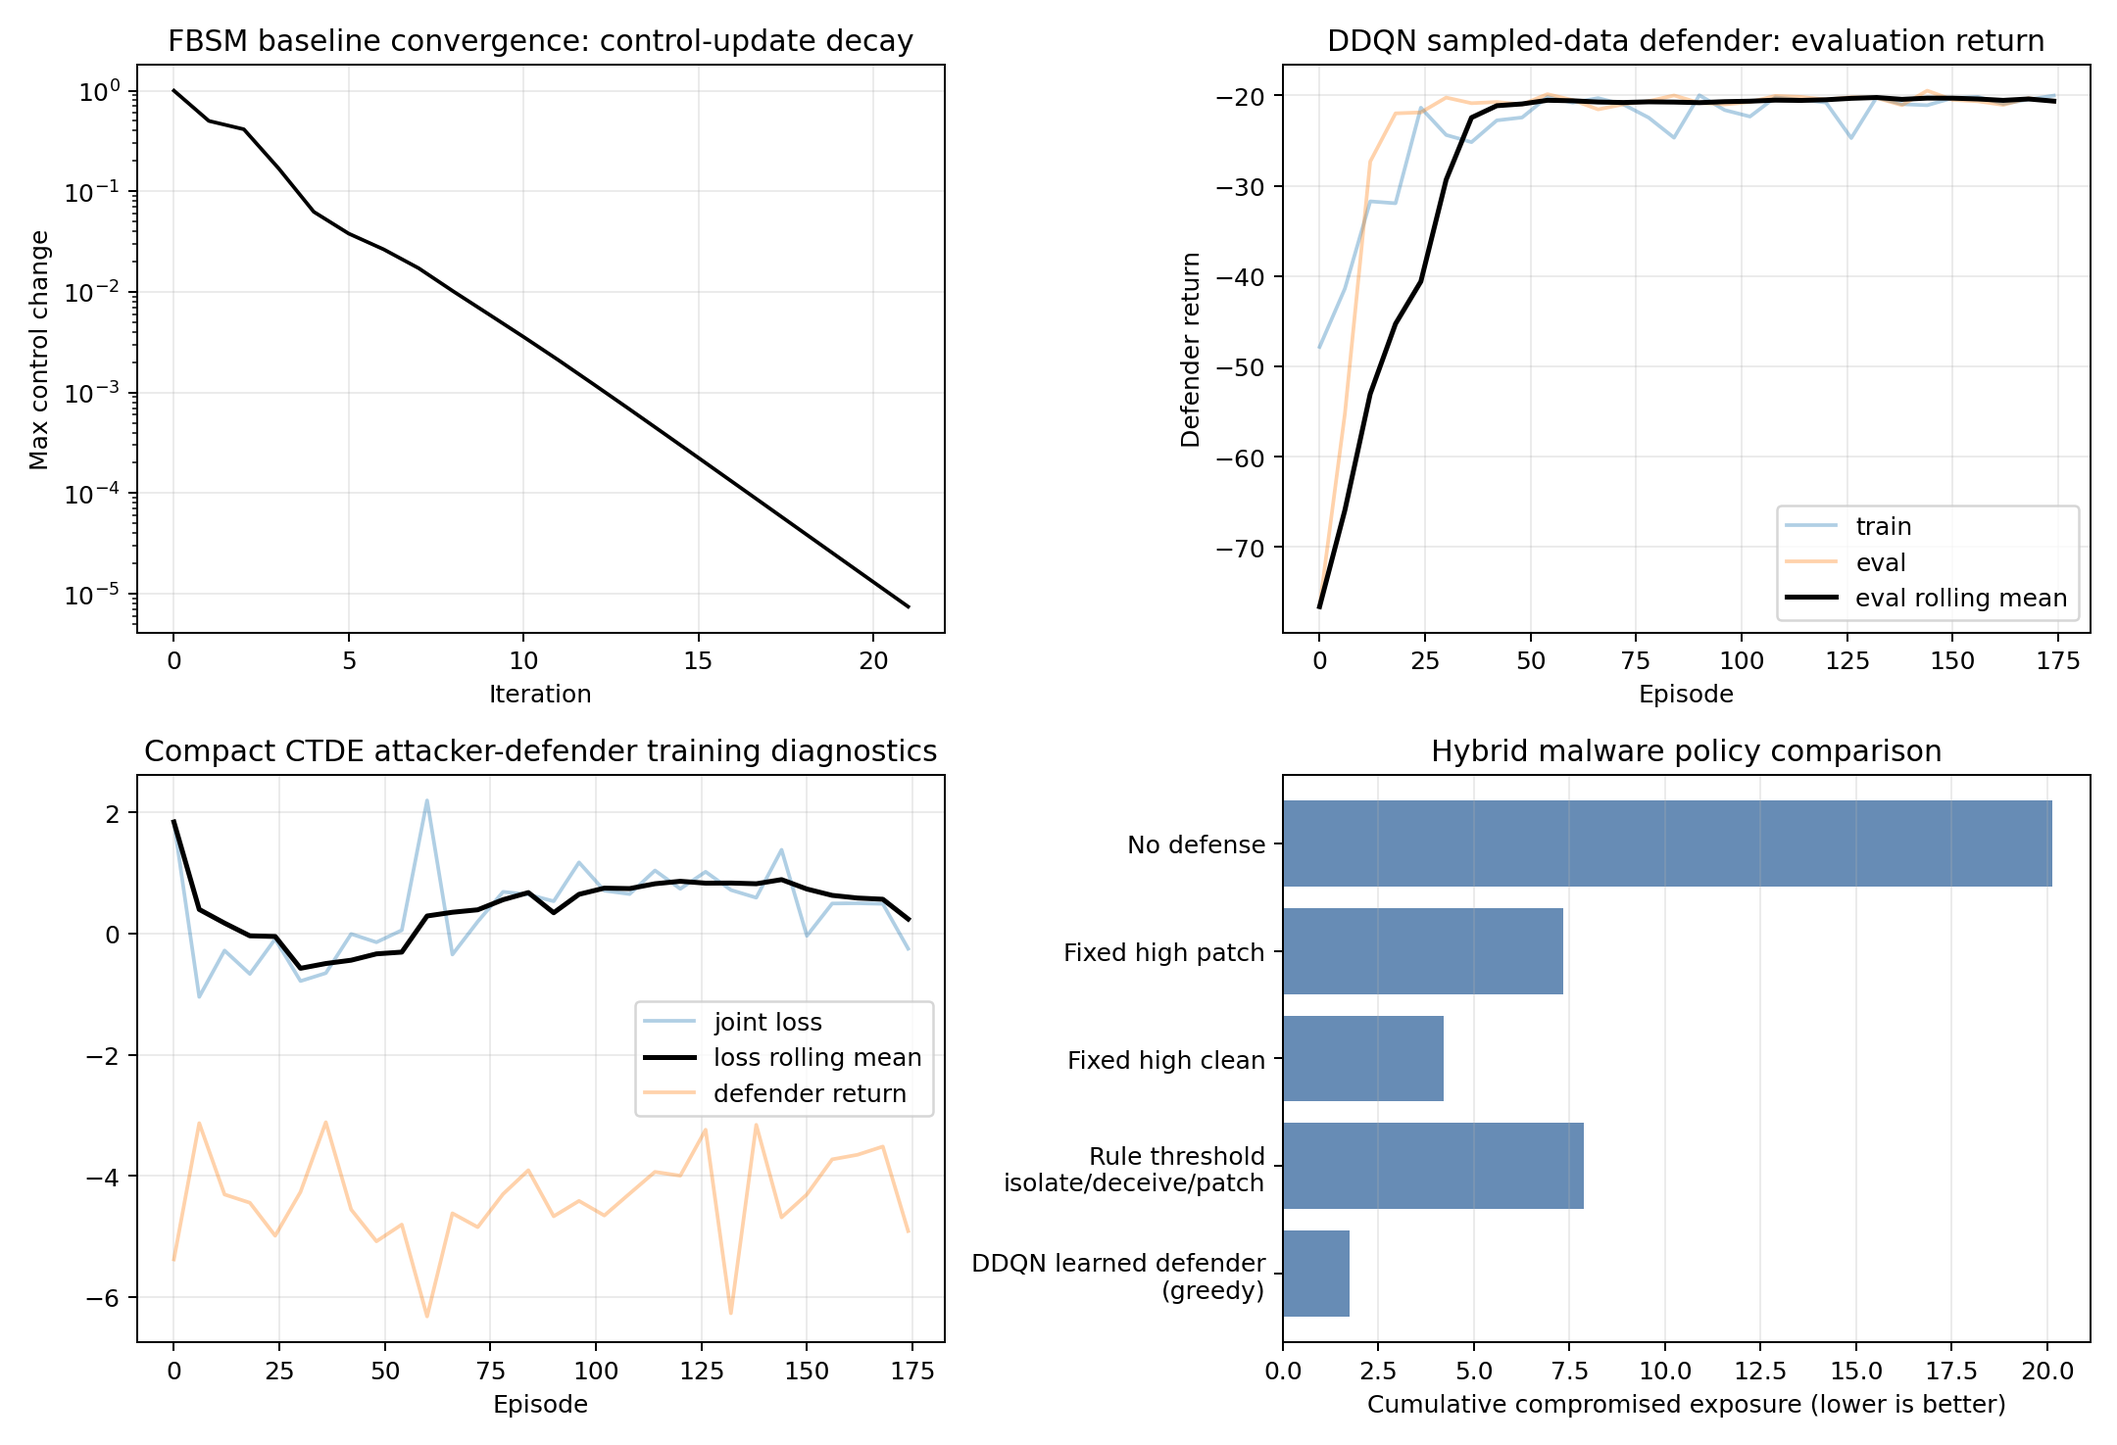
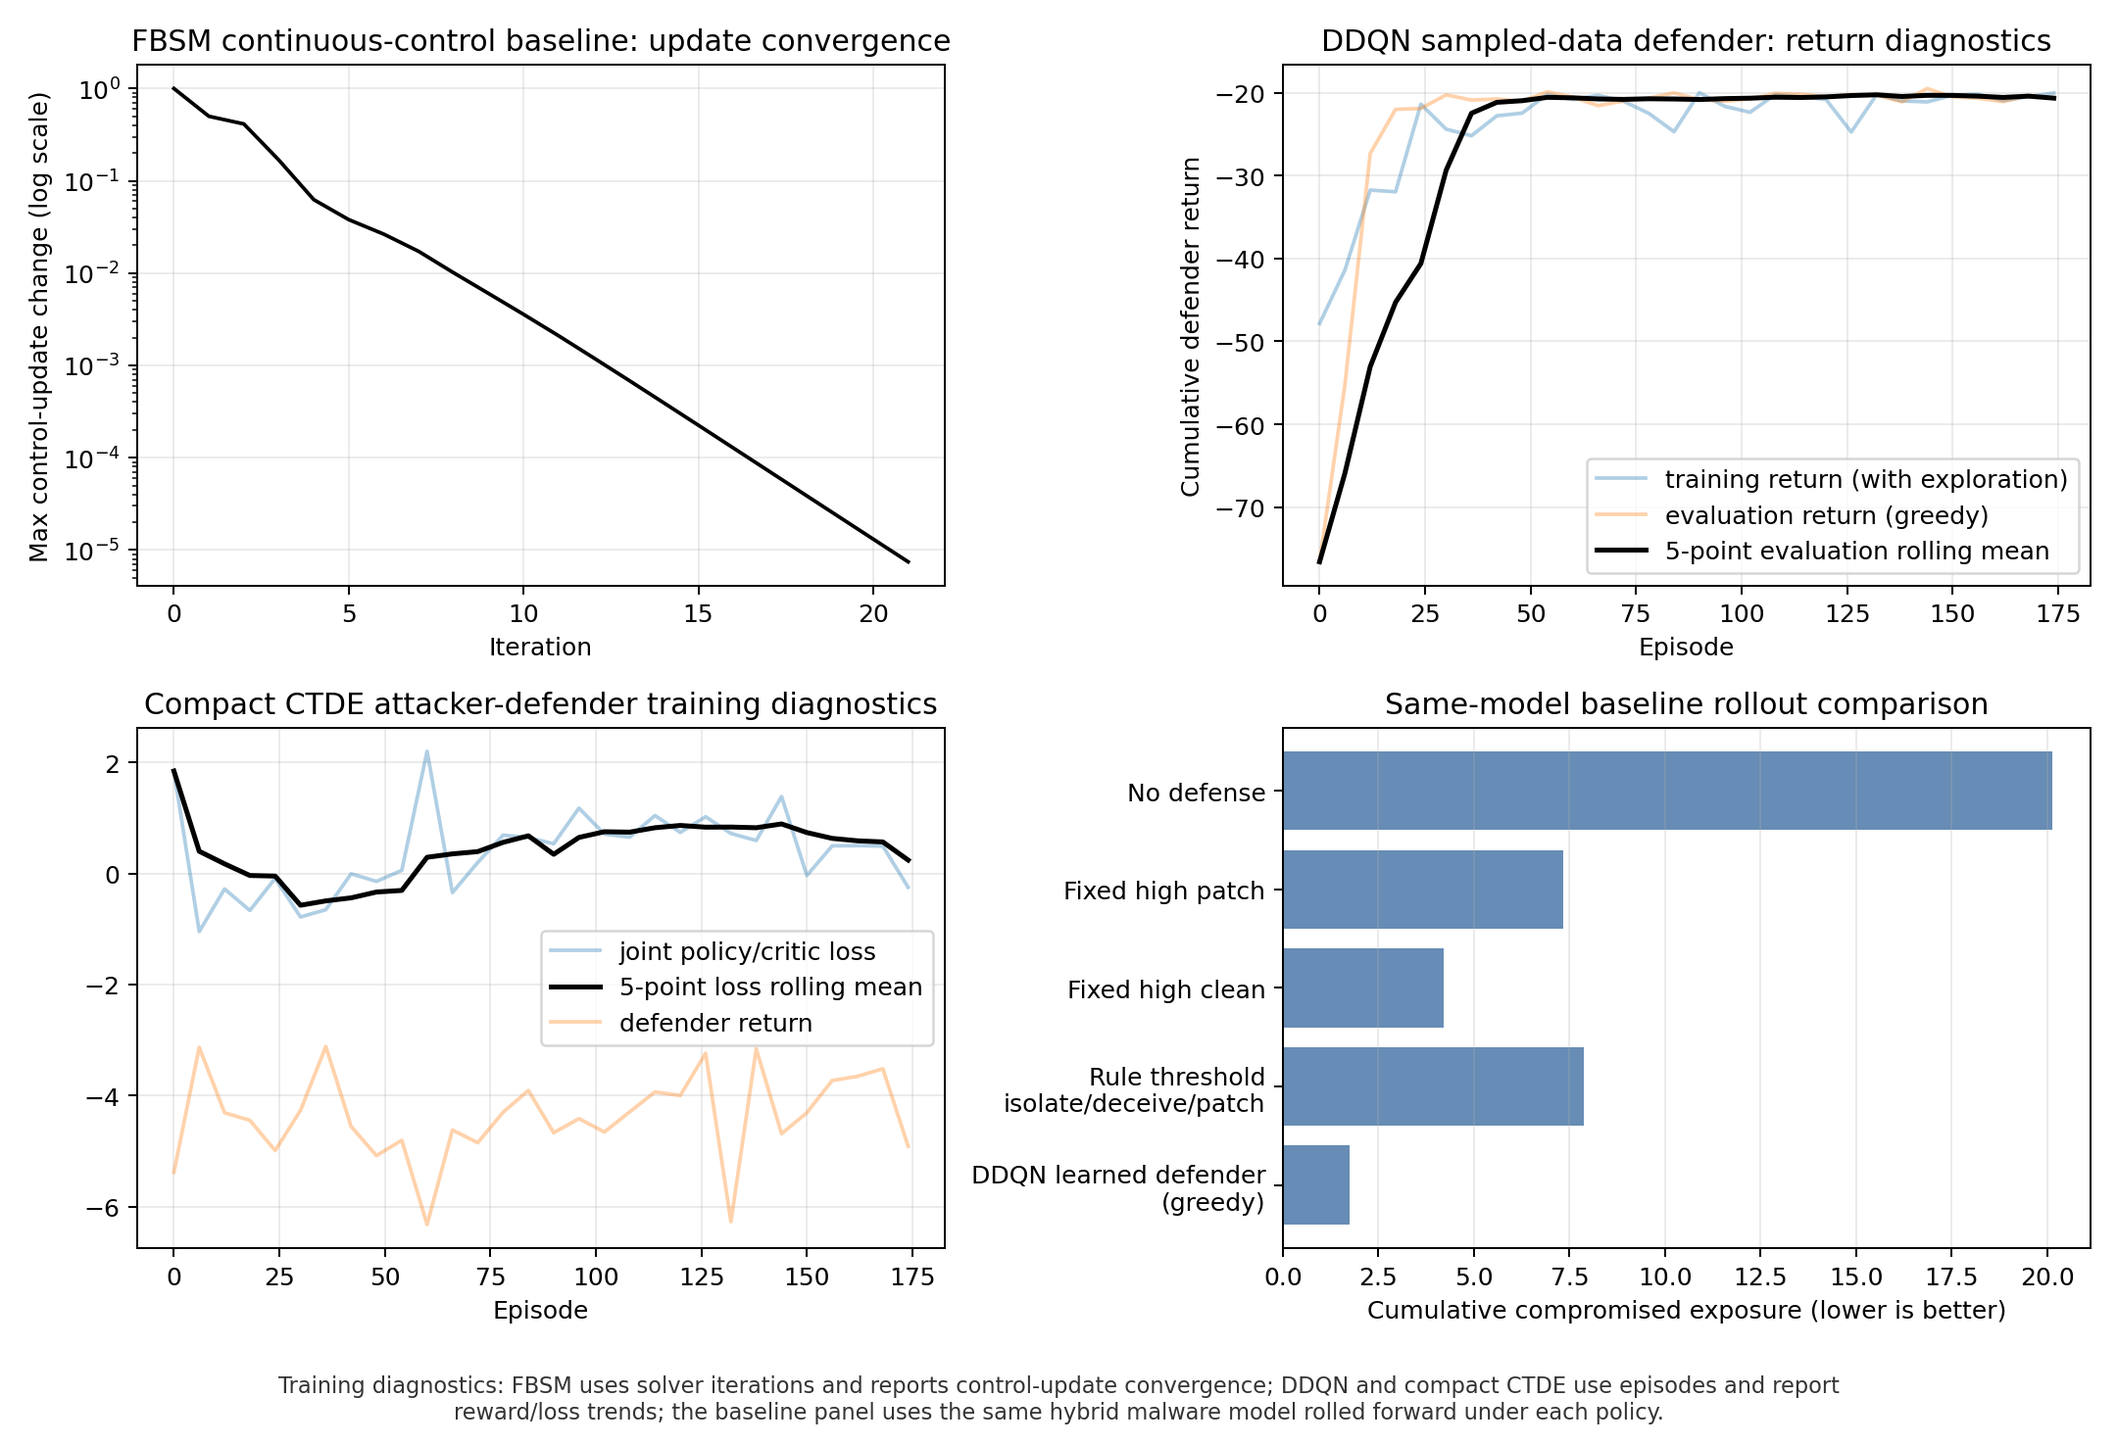
Clarify Note 1 training diagnostics

diff --git a/scripts/run_training_iterations.py b/scripts/run_training_iterations.py
@@ -11,7 +11,6 @@ direction over time?"
 from __future__ import annotations
 
 import argparse
-import math
 import textwrap
 from pathlib import Path
 import sys
@@ -29,6 +28,7 @@ sys.path.insert(0, str(ROOT / "src"))
 from shared_setup import ensure_foundation_package
 
 ensure_foundation_package()
+from cybercontrol.diagnostics import add_caption, diagnostic_terms_for, rolling_mean, write_diagnostic_glossary
 from cybercontrol.io import write_csv
 from ddqn_cyber_defense import train as train_ddqn
 from evaluation_metrics import (
@@ -52,6 +52,19 @@ from node_level_robustness import (
 NODE_NO_DEFENSE_LABEL = "Node-level epidemic model: no defense"
 NODE_FBSM_LABEL = "Node-level epidemic model: nominal-beta FBSM open-loop patching"
 NODE_DDQN_LABEL = "Node-level epidemic model: DDQN aggregate feedback"
+NOTE1_DIAGNOSTIC_TERMS = diagnostic_terms_for(
+    [
+        "iteration",
+        "episode",
+        "rollout",
+        "control-update change",
+        "training return",
+        "evaluation return",
+        "loss",
+        "rolling mean",
+        "baseline comparison",
+    ]
+)
 
 TRAINING_PROFILES = {
     "teaching": {
@@ -239,16 +252,6 @@ def run_node_level_robustness(qnet):
     return rollouts, rows
 
 
-def rolling_mean(values: list[float], window: int = 5) -> list[float]:
-    out = []
-    for idx in range(len(values)):
-        start = max(0, idx - window + 1)
-        chunk = values[start:idx + 1]
-        finite = [x for x in chunk if not math.isnan(x)]
-        out.append(sum(finite) / len(finite) if finite else float("nan"))
-    return out
-
-
 def write_summary(
     path: Path,
     fbsm: list[dict],
@@ -293,6 +296,10 @@ def write_summary(
     text = f"""# Training Summary
 
 These runs use the `{profile["name"]}` profile. The default profile is small enough for a laptop; the GPU profile increases neural width/depth, batch size, replay capacity, horizon, and episodes for a more demanding local run.
+
+## Training Diagnostic Terms
+
+Open `experiments/training_diagnostic_glossary.md` before reading the training plots.  In this repo, **iteration** is used for FBSM sweeps, **episode** is used for DDQN/CTDE learning, **return** is cumulative reward, and **rollout** is a forward simulation used for validation.
 
 ## Experiment Configuration
 
@@ -422,6 +429,7 @@ In this section, **node-level** means each graph node carries a local S/I/R epid
 | Category | File |
 |---|---|
 | Summary | `experiments/training_summary.md` |
+| Diagnostic glossary | `experiments/training_diagnostic_glossary.md` |
 | Learning curves | `figures/training_iteration_diagnostics.png` |
 | Policy comparison CSV | `experiments/policy_comparison_metrics.csv` |
 | Game matrix CSV | `experiments/game_response_metrics.csv` |
@@ -436,28 +444,28 @@ def plot_training_diagnostics(output_path: Path, fbsm: list[dict], ddqn: list[di
     axes = axes.ravel()
 
     axes[0].semilogy([r["iteration"] for r in fbsm], [r["max_control_change"] for r in fbsm], color="black")
-    axes[0].set_title("FBSM baseline convergence: control-update decay")
+    axes[0].set_title("FBSM continuous-control baseline: update convergence")
     axes[0].set_xlabel("Iteration")
-    axes[0].set_ylabel("Max control change")
+    axes[0].set_ylabel("Max control-update change (log scale)")
     axes[0].grid(alpha=0.25)
 
     ddqn_episode = [r["episode"] for r in ddqn]
     ddqn_train = [r["training_return"] for r in ddqn]
     ddqn_eval = [r["evaluation_return"] for r in ddqn]
-    axes[1].plot(ddqn_episode, ddqn_train, alpha=0.35, label="train")
-    axes[1].plot(ddqn_episode, ddqn_eval, alpha=0.35, label="eval")
-    axes[1].plot(ddqn_episode, rolling_mean(ddqn_eval, window=5), color="black", linewidth=2, label="eval rolling mean")
-    axes[1].set_title("DDQN sampled-data defender: evaluation return")
+    axes[1].plot(ddqn_episode, ddqn_train, alpha=0.35, label="training return (with exploration)")
+    axes[1].plot(ddqn_episode, ddqn_eval, alpha=0.35, label="evaluation return (greedy)")
+    axes[1].plot(ddqn_episode, rolling_mean(ddqn_eval, window=5), color="black", linewidth=2, label="5-point evaluation rolling mean")
+    axes[1].set_title("DDQN sampled-data defender: return diagnostics")
     axes[1].set_xlabel("Episode")
-    axes[1].set_ylabel("Defender return")
+    axes[1].set_ylabel("Cumulative defender return")
     axes[1].grid(alpha=0.25)
     axes[1].legend()
 
     madrl_episode = [r["episode"] for r in madrl]
     madrl_loss = [r["loss"] for r in madrl]
     madrl_def = [r["defender_return"] for r in madrl]
-    axes[2].plot(madrl_episode, madrl_loss, alpha=0.35, label="joint loss")
-    axes[2].plot(madrl_episode, rolling_mean(madrl_loss, window=5), color="black", linewidth=2, label="loss rolling mean")
+    axes[2].plot(madrl_episode, madrl_loss, alpha=0.35, label="joint policy/critic loss")
+    axes[2].plot(madrl_episode, rolling_mean(madrl_loss, window=5), color="black", linewidth=2, label="5-point loss rolling mean")
     axes[2].plot(madrl_episode, madrl_def, alpha=0.35, label="defender return")
     axes[2].set_title("Compact CTDE attacker-defender training diagnostics")
     axes[2].set_xlabel("Episode")
@@ -469,11 +477,15 @@ def plot_training_diagnostics(output_path: Path, fbsm: list[dict], ddqn: list[di
     axes[3].barh(y, [row["cumulative_compromised"] for row in policy_metrics], color="#4c78a8", alpha=0.85)
     axes[3].set_yticks(y, labels)
     axes[3].invert_yaxis()
-    axes[3].set_title("Hybrid malware policy comparison")
+    axes[3].set_title("Same-model baseline rollout comparison")
     axes[3].set_xlabel("Cumulative compromised exposure (lower is better)")
     axes[3].grid(axis="x", alpha=0.25)
 
-    fig.tight_layout()
+    add_caption(
+        fig,
+        "Training diagnostics: FBSM uses solver iterations and reports control-update convergence; DDQN and compact CTDE use episodes and report reward/loss trends; the baseline panel uses the same hybrid malware model rolled forward under each policy.",
+    )
+    fig.tight_layout(rect=(0, 0.065, 1, 1))
     output_path.parent.mkdir(exist_ok=True)
     fig.savefig(output_path, dpi=180)
     plt.close(fig)
@@ -617,6 +629,11 @@ def main() -> None:
     write_csv(exp_dir / "policy_comparison_metrics.csv", policy_metrics)
     write_csv(exp_dir / "game_response_metrics.csv", game_metrics)
     write_csv(exp_dir / "node_level_robustness_metrics.csv", node_metrics)
+    write_diagnostic_glossary(
+        exp_dir / "training_diagnostic_glossary.md",
+        NOTE1_DIAGNOSTIC_TERMS,
+        title="Note 1 Training Diagnostic Glossary",
+    )
     write_summary(exp_dir / "training_summary.md", fbsm, ddqn, madrl, policy_metrics, game_metrics, node_metrics, profile)
     write_output_preview(exp_dir / "OUTPUT_PREVIEW.md", policy_metrics, game_metrics, node_metrics)
     plot_training_diagnostics(fig_dir / "training_iteration_diagnostics.png", fbsm, ddqn, madrl, policy_metrics)

diff --git a/scripts/README.md b/scripts/README.md
@@ -6,7 +6,7 @@ Scripts are grouped by purpose: quick validation, figure generation, and longer 
 |---|---|---|---|
 | `run_smoke_tests.sh` | Fast confidence check for every executable component. | `bash scripts/run_smoke_tests.sh` | Console output only |
 | `generate_figures.py` | Rebuild static explanatory figures used by the README. | `python scripts/generate_figures.py` | `figures/*.png`, including `timing_semantics.png` |
-| `run_training_iterations.py` | Run longer FBSM, DDQN, compact CTDE, policy-comparison, game-response, and node-level epidemic robustness diagnostics. | `python scripts/run_training_iterations.py` | `experiments/*.csv`, `experiments/training_summary.md`, `figures/training_iteration_diagnostics.png`, `figures/game_response_matrix.png`, `figures/node_level_learning_advantage.png` |
+| `run_training_iterations.py` | Run longer FBSM, DDQN, compact CTDE, policy-comparison, game-response, and node-level epidemic robustness diagnostics. | `python scripts/run_training_iterations.py` | `experiments/*.csv`, `experiments/training_diagnostic_glossary.md`, `experiments/training_summary.md`, `figures/training_iteration_diagnostics.png`, `figures/game_response_matrix.png`, `figures/node_level_learning_advantage.png` |
 
 ## Runtime Notes
 
@@ -42,6 +42,10 @@ The checked-in CSV files and figures are examples from one deterministic tutoria
 | `EnvConfig.substeps` | `src/cyber_hybrid_env.py` | RK4 substeps inside one transition, not extra MDP steps |
 | `--episodes` | `run_training_iterations.py` | training episodes for DDQN and compact CTDE diagnostics |
 | `horizon` | script defaults and CSV summaries | number of decision epochs in a rollout |
+
+## Training Diagnostic Terms
+
+`run_training_iterations.py` writes `experiments/training_diagnostic_glossary.md`. Open it next to `figures/training_iteration_diagnostics.png` when reading the curves: FBSM uses solver iterations, DDQN/CTDE use episodes, return is cumulative reward, and baseline comparison means a same-model rollout under fixed or learned policies.
 
 The code defaults to fixed `EnvConfig.dt` for readability.  In the notation of the notes, a more general environment can use nonuniform `Delta t_k`; it should record the current `t_k`, next action time, and interval length in the transition diagnostics.
 

diff --git a/README.md b/README.md
@@ -110,7 +110,7 @@ The hybrid policy comparison rolls out the same cyber scenario under no defense,
 
 ![Hybrid policy comparison](figures/hybrid_policy_comparison.png)
 
-The training diagnostics plot summarizes longer tutorial runs.  FBSM should show the clearest convergence; DDQN and compact CTDE should be read as stochastic learning/stability diagnostics rather than formal equilibrium proofs.
+The training diagnostics plot summarizes longer tutorial runs.  FBSM should show the clearest control-update convergence; DDQN and compact CTDE should be read as stochastic learning/stability diagnostics rather than formal equilibrium proofs.  The generated `experiments/training_diagnostic_glossary.md` defines terms such as episode, rollout, training return, evaluation return, rolling mean, and baseline comparison.
 
 ![Training iteration diagnostics](figures/training_iteration_diagnostics.png)
 
@@ -135,6 +135,7 @@ The node-level epidemic-model robustness experiment shows a case where a low-dim
 | `figures/node_level_learning_advantage.png` | node-level epidemic-model parameter-mismatch comparison: DDQN feedback versus nominal-beta FBSM |
 | `experiments/node_siprs_mappo_smoke.csv` | small cooperative MAPPO smoke history on canonical node-level SIPRS dynamics |
 | `experiments/OUTPUT_PREVIEW.md` | categorized first-stop summary after longer experiment runs |
+| `experiments/training_diagnostic_glossary.md` | short definitions for terms used in training figures and CSV histories |
 | `experiments/policy_comparison_metrics.csv` | multi-metric comparison of representative defense policies |
 | `experiments/game_response_metrics.csv` | game-style attacker-defender response metrics |
 | `experiments/node_level_robustness_metrics.csv` | node-level epidemic-model robustness metrics over multiple random graph seeds |

diff --git a/experiments/training_diagnostic_glossary.md b/experiments/training_diagnostic_glossary.md
@@ -1,0 +1,15 @@
+# Note 1 Training Diagnostic Glossary
+
+Use this page while reading the training-diagnostic figures and CSV histories.
+
+| Term | Meaning | How to read it |
+|---|---|---|
+| `iteration` | One optimizer, FBSM, or residual-update step. | Use for solver or neural-training progress on the x-axis. |
+| `episode` | One complete sampled-data rollout used by RL/MARL training. | Use for DDQN, PPO, MAPPO, or CTDE learning curves. |
+| `rollout` | A forward simulation under a fixed policy, control, or parameter set. | Use for validation outside the training loss. |
+| `control-update change` | Maximum change between consecutive FBSM controls or strategies. | A convergence diagnostic; should decay toward tolerance. |
+| `training return` | Cumulative reward collected during learning, often with exploration. | Noisy; do not treat one point as policy quality. |
+| `evaluation return` | Cumulative reward from the current policy under a fixed evaluation setting. | Use rolling trends and compare with cyber metrics. |
+| `loss` | The scalar objective minimized by an optimizer. | Must be read with its component losses. |
+| `rolling mean` | Moving average of recent noisy values. | Shows trend without hiding stochastic variability. |
+| `baseline comparison` | Same-model comparison with no-control, fixed, random, or simple learned policies. | Use before making a stronger method claim. |

diff --git a/docs/PARAMETERS.md b/docs/PARAMETERS.md
@@ -29,6 +29,11 @@ Use this page before changing the model, reward, or learner. It separates physic
 | `CTDE` | Centralized training, decentralized execution. Critics may see joint state/action information during training; actors use local observations at execution. |
 | `MAPPO` | Multi-agent PPO. In this repo it is a compact cooperative community-defense baseline on node-level SIPRS dynamics. |
 | `GAE` | Generalized advantage estimation, used by PPO/MAPPO to estimate lower-variance policy advantages from rollout rewards and value predictions. |
+| `training diagnostic` | A learning or solver-health check, such as FBSM control-update change, DDQN return, CTDE loss, or same-model rollout comparison. |
+| `training return` | Cumulative reward collected while a learner is exploring. It is noisy and should be read with evaluation return and cyber metrics. |
+| `evaluation return` | Cumulative reward from the current policy under a fixed evaluation setting, usually without exploration. |
+| `control-update change` | Maximum change between consecutive FBSM controls. It is a convergence diagnostic, not a cybersecurity metric. |
+| `rolling mean` | Moving average used to show a trend in noisy RL/MARL curves. It should not hide individual unstable episodes. |
 
 ## Scenario Parameters
 

diff --git a/src/README.md b/src/README.md
@@ -59,6 +59,7 @@ This tutorial environment uses fixed `t_k = k * dt`.  The notes also support non
 | Compact CTDE game | environment, defender/attacker actors, centralized critics | trained actors and logged loss/return diagnostics |
 | Node-SIPRS MAPPO | community observations, canonical SIPRS ODE, sampled defender modes | clipped PPO/GAE training history and mass-conservation diagnostics |
 | Node-level epidemic robustness | trained aggregate DDQN policy, nominal FBSM schedule, random graph seed | aggregate infected-node trajectories, robustness metrics, scaling proxy |
+| Training diagnostics | histories from FBSM, DDQN, CTDE, and policy rollouts | standardized glossary, readable captions, and same-model comparison figures |
 
 ## How The Pieces Fit
 

diff --git a/experiments/training_summary.md b/experiments/training_summary.md
@@ -2,6 +2,10 @@
 
 These runs use the `teaching` profile. The default profile is small enough for a laptop; the GPU profile increases neural width/depth, batch size, replay capacity, horizon, and episodes for a more demanding local run.
 
+## Training Diagnostic Terms
+
+Open `experiments/training_diagnostic_glossary.md` before reading the training plots.  In this repo, **iteration** is used for FBSM sweeps, **episode** is used for DDQN/CTDE learning, **return** is cumulative reward, and **rollout** is a forward simulation used for validation.
+
 ## Experiment Configuration
 
 | Item | Setting |

diff --git a/experiments/OUTPUT_PREVIEW.md b/experiments/OUTPUT_PREVIEW.md
@@ -55,6 +55,7 @@ In this section, **node-level** means each graph node carries a local S/I/R epid
 | Category | File |
 |---|---|
 | Summary | `experiments/training_summary.md` |
+| Diagnostic glossary | `experiments/training_diagnostic_glossary.md` |
 | Learning curves | `figures/training_iteration_diagnostics.png` |
 | Policy comparison CSV | `experiments/policy_comparison_metrics.csv` |
 | Game matrix CSV | `experiments/game_response_metrics.csv` |
